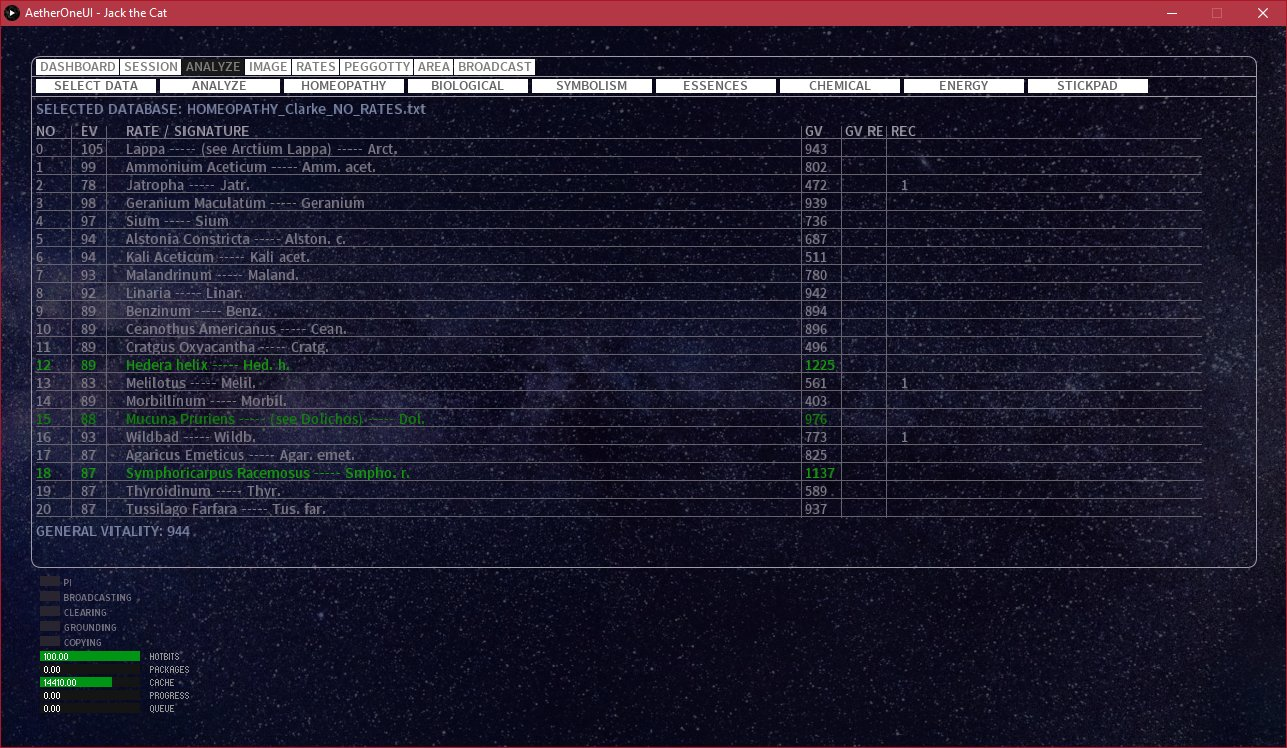
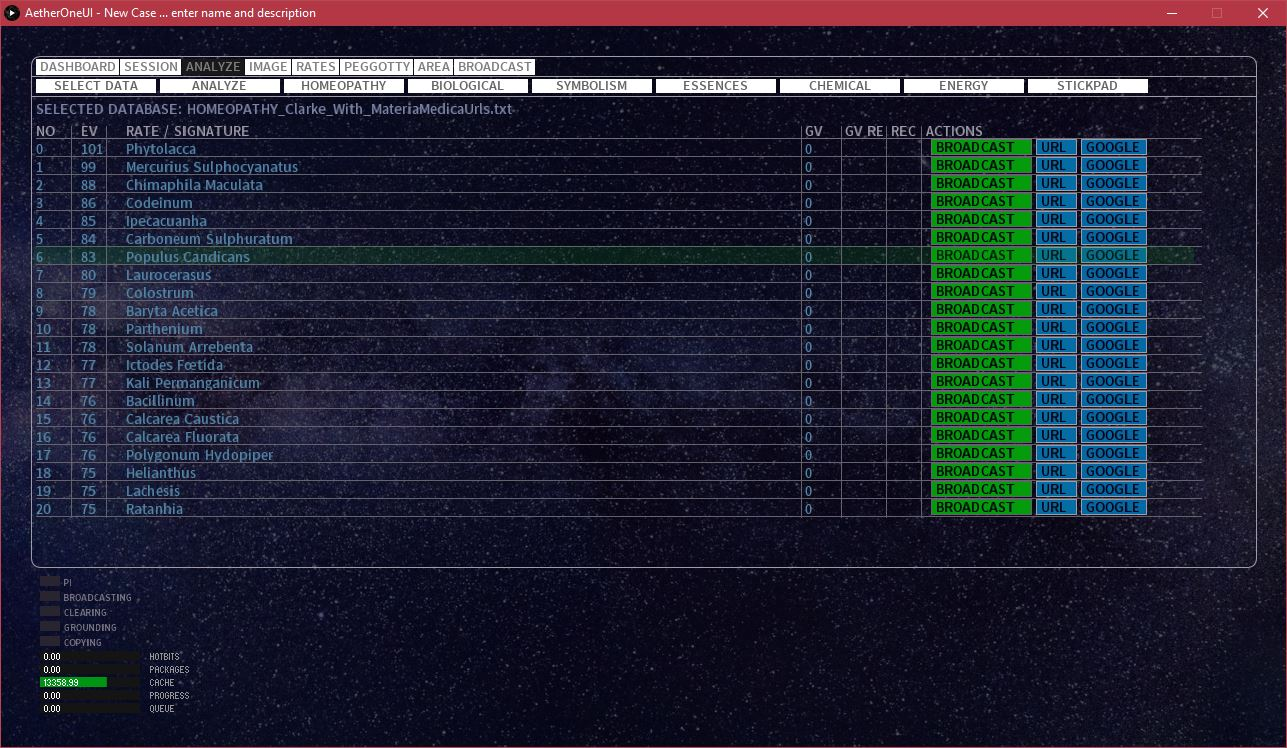
documentation

diff --git a/documentation/documentation.md b/documentation/documentation.md
@@ -1,22 +1,60 @@
 # Documentation
 ## Quick Guide
-TODO work in progress
+The current version of AetherOnePi is the V1.0, which represents the "Standalone Version" with only a client capable of analysing and broadcasting. The analysis is performed with the virtual "stick pad".
+
+### Installation
+Download the version 1.0 [here](https://github.com/isuretpolos/AetherOnePi/releases/tag/1.0) and unzip the file where you want.
+You need [Java Runtime 8](https://java.com/en/download/help/download_options.xml) or bigger. You can check if you have Java already installed on your operating system by typing
+
+    java -version
+
+### Start the Standalone Client
+ ![Dashboard](https://raw.githubusercontent.com/isuretpolos/AetherOnePi/master/documentation/screenshots/startGuiBat.jpg)
+ 
+ On Windows doubleclick on "startGui.bat". Or on other systems like MacOS or Linux you can open a terminal and type
+ 
+     java -jar AetherOnePi-1.0.0-jar-with-dependencies.jar
+     
+ The jar is an executable only on OS which has this feature enabled.
+
+### Dashboard
+When you start the Client, the first screen is the Dashboard. Here you see new informations regarding Updates.
 
 ![Dashboard](https://raw.githubusercontent.com/isuretpolos/AetherOnePi/master/documentation/screenshots/dashboard.jpg)
 
+In the Session screen you can insert a new target or load an existing one.
+
 ![Dashboard](https://raw.githubusercontent.com/isuretpolos/AetherOnePi/master/documentation/screenshots/session.jpg)
+
+Next screen is the Analysis screen. For the Standalone version you need here only two buttons, the "SELECT DATA" and the "STICKPAD".
+
+The "SELECT DATA" opens a dialog where you can select a rate list.
+
+When you are ready to analyze, click on the "STICKPAD" button and move your mouse around until the analysis is complete. This requires some time.
+
+Continue to move your mouse when the result appears, because this is required to check the General Vitality (GV).
+
+What you then see is a list of rates ordered by the EV (energetic value).
+
+Click on BROADCAST button for encoding and broadcasting the desired signature.
+
+Or click on the GOOGLE button for researching the keyword.
+
+If a rate has a URL you can open it with the URL button.
 
 ![Dashboard](https://raw.githubusercontent.com/isuretpolos/AetherOnePi/master/documentation/screenshots/analysis.jpg)
 
+A rate can be broadcast also directly in the Broadcast screen. 
+
 ![Dashboard](https://raw.githubusercontent.com/isuretpolos/AetherOnePi/master/documentation/screenshots/broadcast.jpg)
 
-## Developer Guide
+# Developer Guide
 Note: I will not give support to the novice in java programming.
 I assume that you are a professional developer if you read this chapter.
 I rather concentrate my time in research, developing and writing about radionics.
 It is not my task to teach you programming (even if I would love to ... believe me!).
 
-### Requirements
+## Requirements
 The following requirements are also the skills you need to master for partecipating to the project. Note that these are well known industrial standards.
 But if you want to just build your own release, basic knowledge should be sufficient.
 
@@ -28,7 +66,7 @@ But if you want to just build your own release, basic knowledge should be suffic
 - [Angular CLI](https://angular.io/guide/quickstart)
 - [Yarn](https://yarnpkg.com/lang/en/docs/install/) ... you can skip this one, but yarn is a lot faster than npm
 
-#### Download the project with Git
+### Download the project with Git
 The best option to download the project is to clone it initially with git ... 
 
     git clone https://github.com/isuretpolos/AetherOnePi.git
@@ -37,7 +75,7 @@ The best option to download the project is to clone it initially with git ...
 
     git pull
 
-#### Install Angular 8 and other tools
+### Install Angular 8 and other tools
 Maybe you need an additional parameter for specifying **Angular 8** if you want to participate developing the web gui.
 
     npm install -g @angular/cli
@@ -61,7 +99,7 @@ Finally **ng serve -o** for executing a mini server for the gui. The parameter -
     ng build
     ng serve -o
 
-#### Missing ControlP5 Lib
+### Missing ControlP5 Lib
 Call **[installLibsDependencies.bat](../installLibsDependencies.bat)** for installing [ControlP5](http://www.sojamo.de/libraries/controlP5/) library in your local repository. Unfortunately this library is not available in [maven central repository](https://www.tutorialspoint.com/maven/maven_repositories.htm). You need to do this just once for your *developer environment*. I have added this call also in **mvnw.cmd**.
 
     installLibsDependencies.bat
@@ -70,7 +108,7 @@ or
 
     mvnw
 
-#### Build the project
+### Build the project
     mvn clean install
 
 Inside the **target folder** two different jar files are created. One is for the standalone gui and the other for the Raspberry Pi server application.
